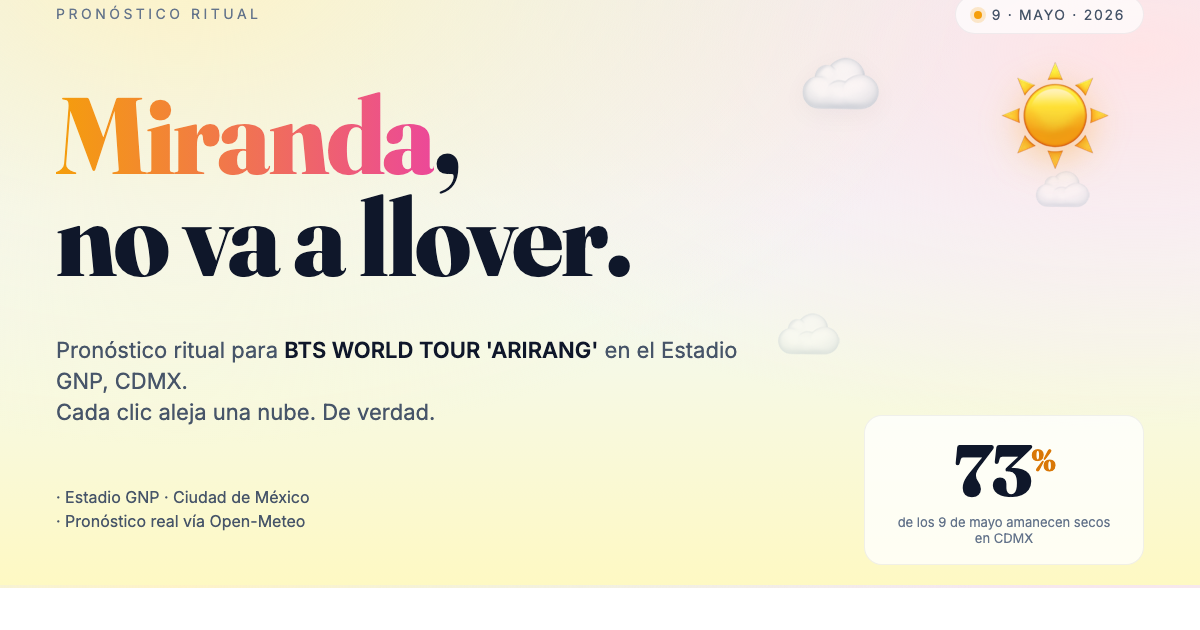
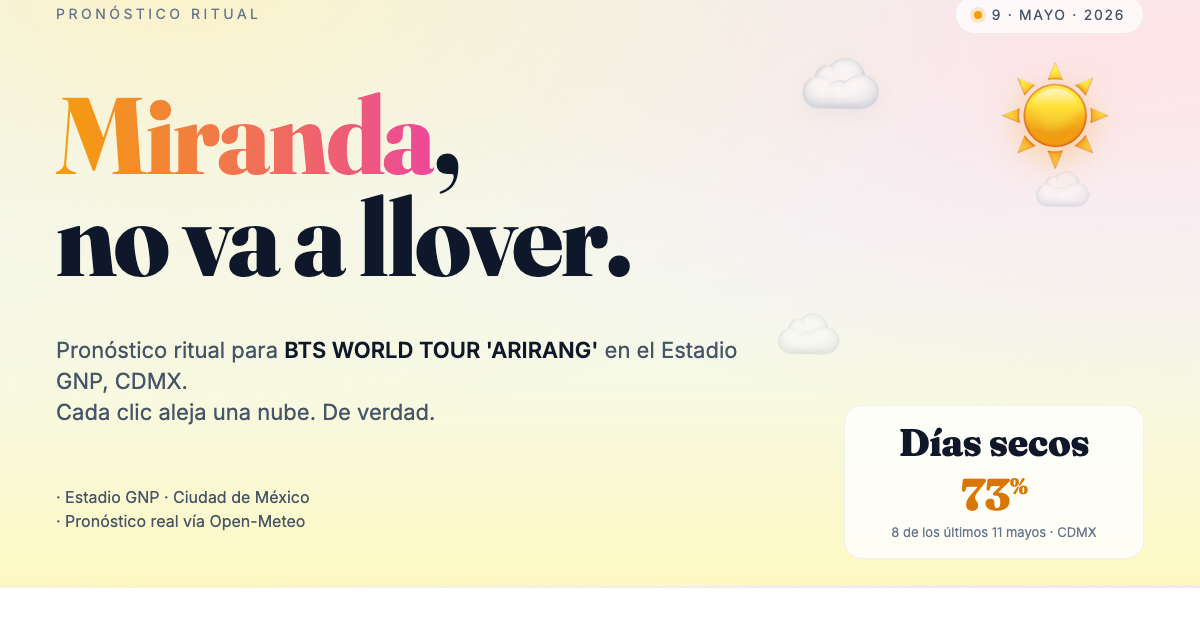
OG: invertir jerarquía del stat para evitar lectura ambigua del 73%
'Días secos' ahora es el elemento dominante del bloque (38px Fraunces);
el 73% pasa a rol de apoyo (44px ámbar). El frame previene que en thumbnails
de WhatsApp se lea como '73% probabilidad de lluvia'.

Changed region(s): [[0.6783, 0.6333, 0.9558, 0.9048]]

diff --git a/og.html b/og.html
@@ -80,23 +80,32 @@
 
     .stat {
       position: absolute;
-      top: 460px; right: 56px;
-      background: rgba(255,255,255,.78);
+      top: 450px; right: 56px;
+      background: rgba(255,255,255,.82);
       border: 1px solid rgba(15,23,42,.06);
       border-radius: 18px;
       padding: 18px 26px;
       text-align: center;
-      width: 280px;
+      width: 300px;
     }
-    .stat .num {
+    .stat .heading {
       font-family: 'Fraunces', 'Georgia', serif;
       font-weight: 800;
-      font-size: 72px;
+      font-size: 38px;
       line-height: 1;
       color: #0f172a;
+      letter-spacing: -.01em;
+    }
+    .stat .num {
+      margin-top: 10px;
+      font-family: 'Fraunces', 'Georgia', serif;
+      font-weight: 800;
+      font-size: 44px;
+      line-height: 1;
+      color: #d97706;
       letter-spacing: -.02em;
     }
-    .stat .num sup { font-size: 30px; color: #d97706; vertical-align: super; }
+    .stat .num sup { font-size: 22px; vertical-align: super; }
     .stat .label {
       margin-top: 8px;
       font-size: 13px;
@@ -139,8 +148,9 @@
   </div>
 
   <div class="stat">
+    <div class="heading">Días secos</div>
     <div class="num">73<sup>%</sup></div>
-    <div class="label">de los 9 de mayo amanecen secos en CDMX</div>
+    <div class="label">8 de los últimos 11 mayos · CDMX</div>
   </div>
 
   <script>
